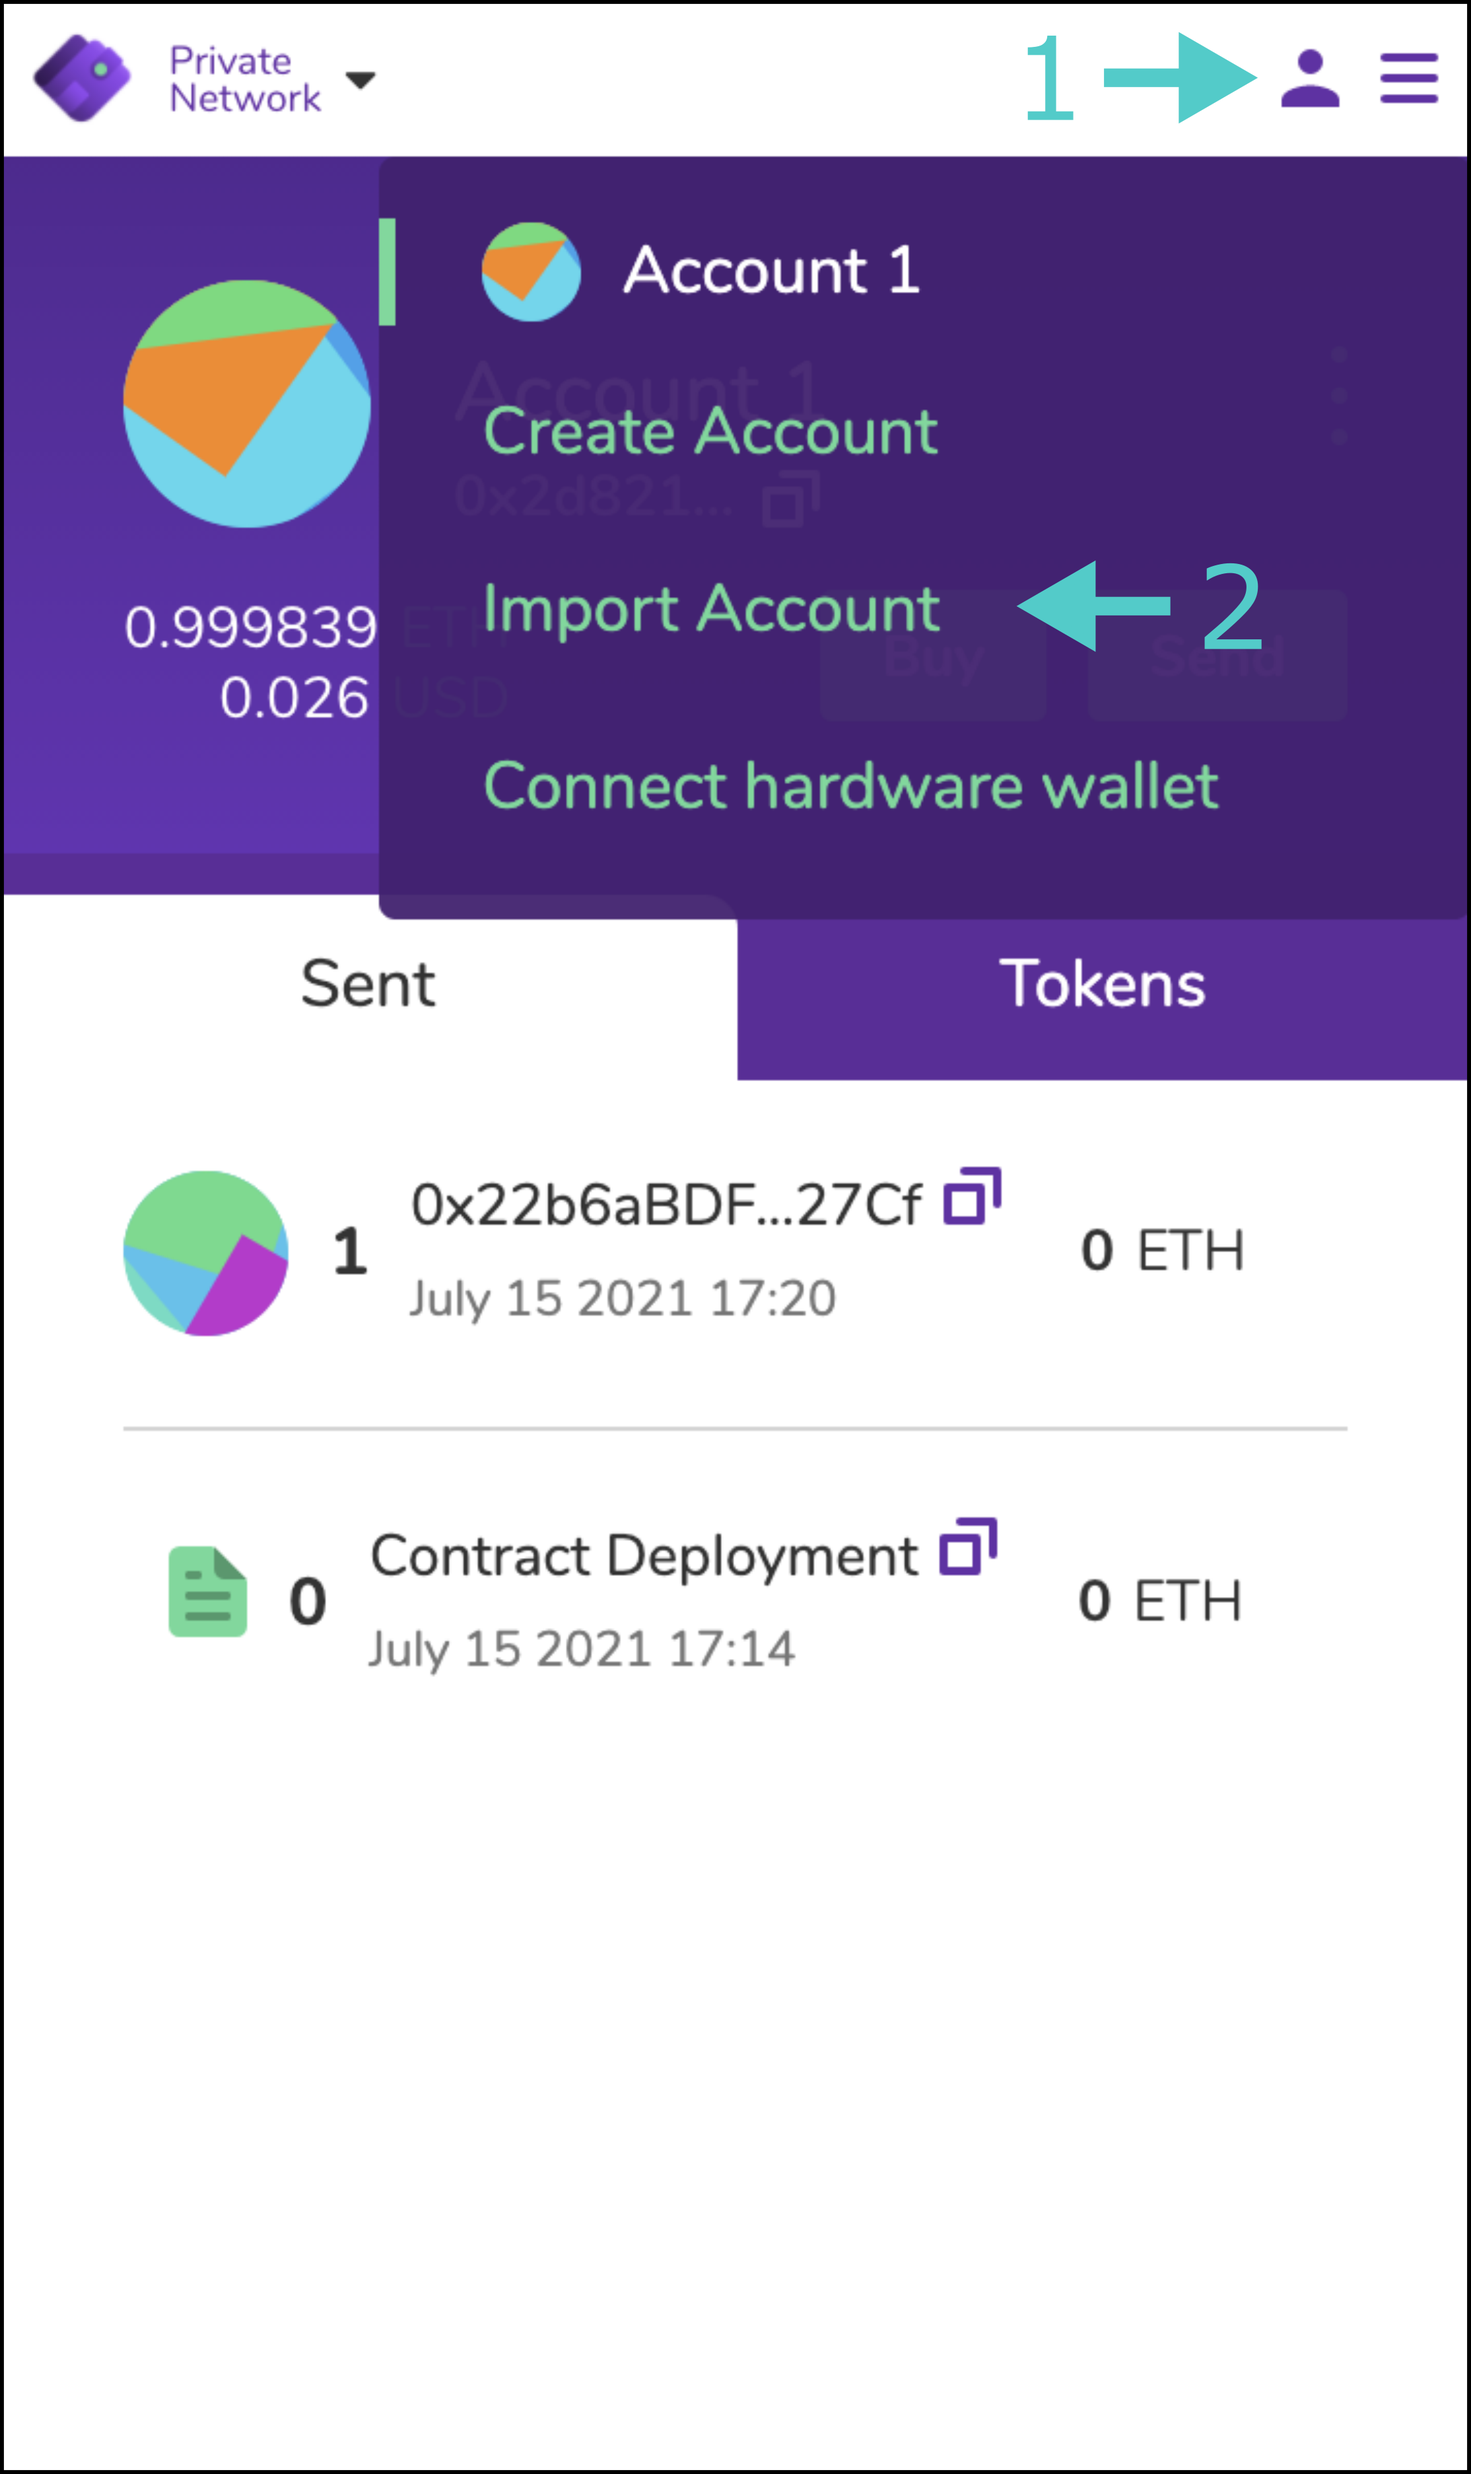
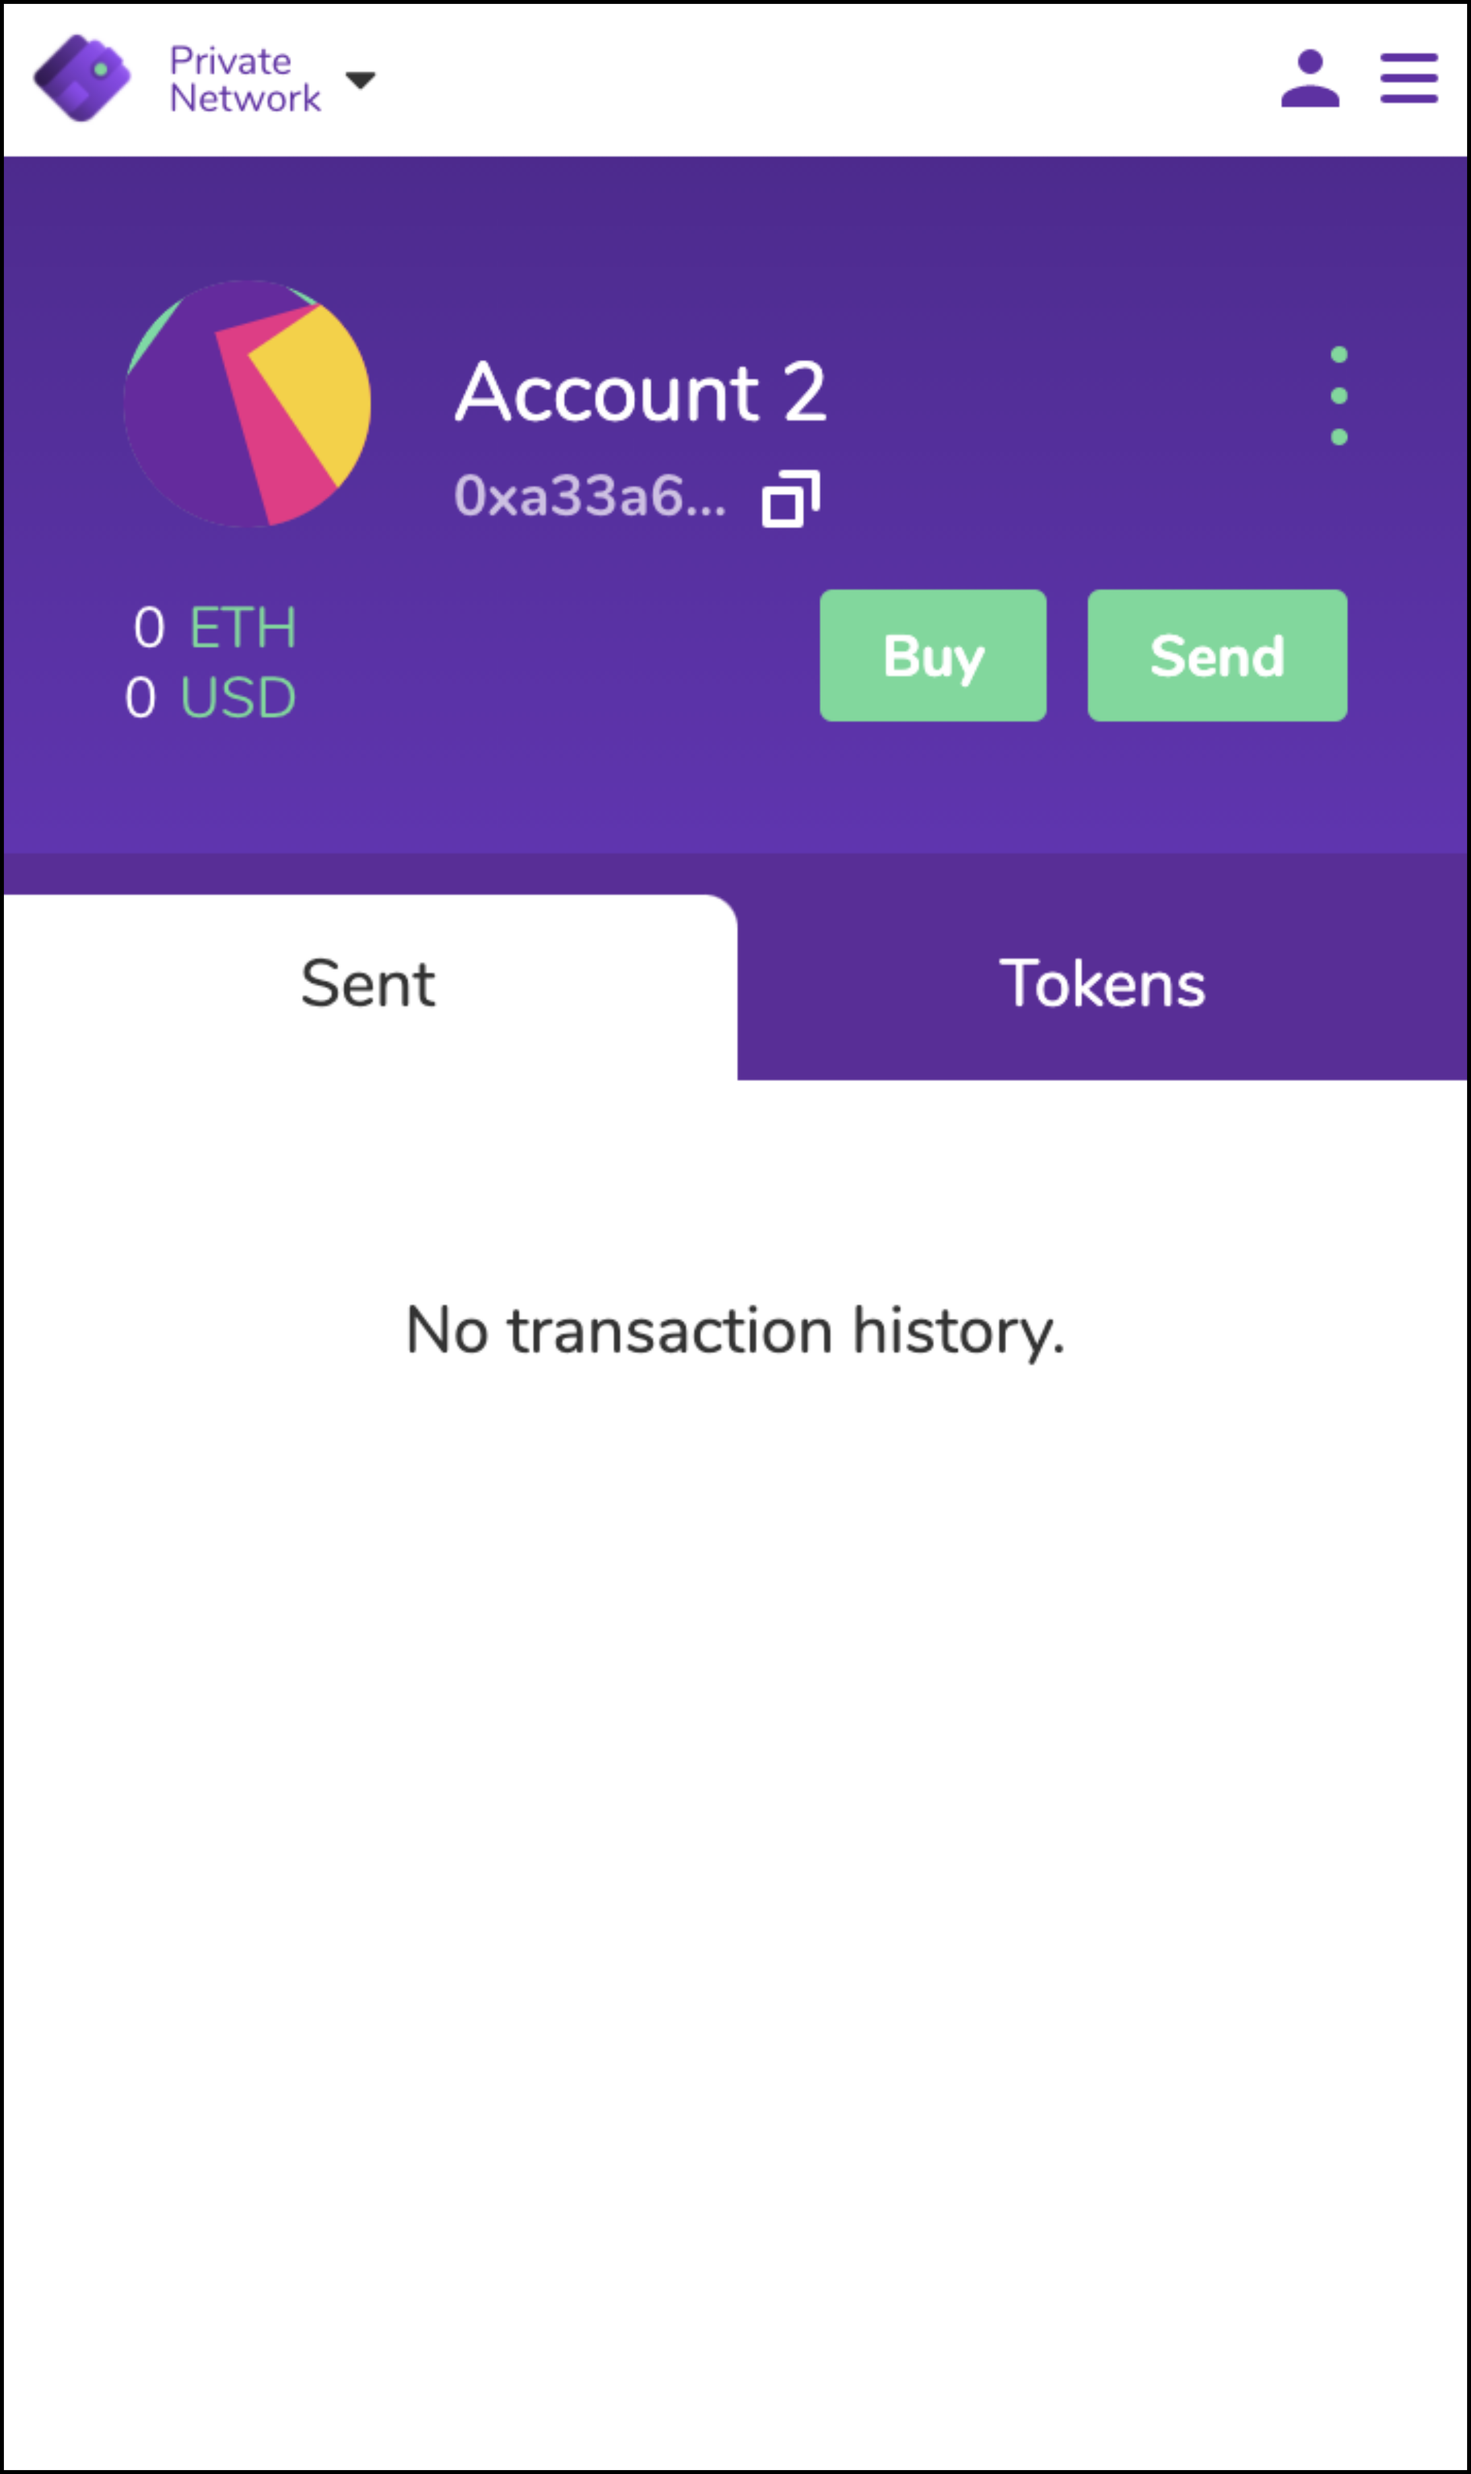
add final result to creating and importing an account - update pictures!

diff --git a/integrations/wallets/nifty.md b/integrations/wallets/nifty.md
@@ -87,13 +87,20 @@ To create a new account, click the user icon in the top right corner and select 
 
 <img src="/images/nifty/nifty-images-7.png" alt="Nifty create an account" style="width: 50%; display: block; margin-left: auto; margin-right: auto;" />
 
+A new account will be created and you'll be switched to the new account.
+
+<img src="/images/nifty/nifty-images-8.png" alt="Nifty create an account" style="width: 50%; display: block; margin-left: auto; margin-right: auto;" />
+
 ## Import an Account
 
 To create a new wallet, click the user icon in the top right corner and select "Import Account".
 
-<img src="/images/nifty/nifty-images-8.png" alt="Nifty import an account" style="width: 50%; display: block; margin-left: auto; margin-right: auto;" />
+<img src="/images/nifty/nifty-images-9.png" alt="Nifty import an account" style="width: 50%; display: block; margin-left: auto; margin-right: auto;" />
 
 Next, select the type of import from the dropdown and enter the necessary details to import your account. For example, if you choose to import with a private key, paste your private key in the input field and click "Import".
 
-<img src="/images/nifty/nifty-images-9.png" alt="MathWallet private key or mnemonic import" style="width: 50%; display: block; margin-left: auto; margin-right: auto;" />
+<img src="/images/nifty/nifty-images-10.png" alt="MathWallet private key or mnemonic import" style="width: 50%; display: block; margin-left: auto; margin-right: auto;" />
 
+Your account will be imported and you'll be switched to the imported account.
+
+<img src="/images/nifty/nifty-images-11.png" alt="Nifty create an account" style="width: 50%; display: block; margin-left: auto; margin-right: auto;" />
